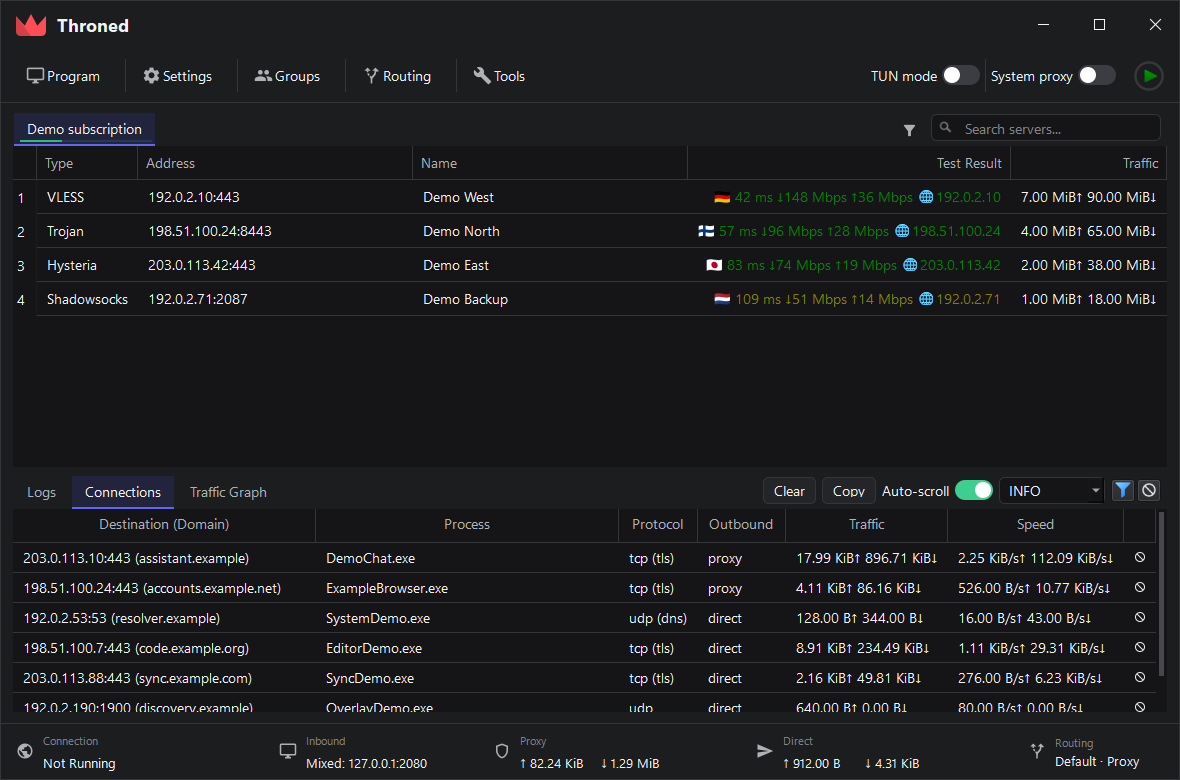
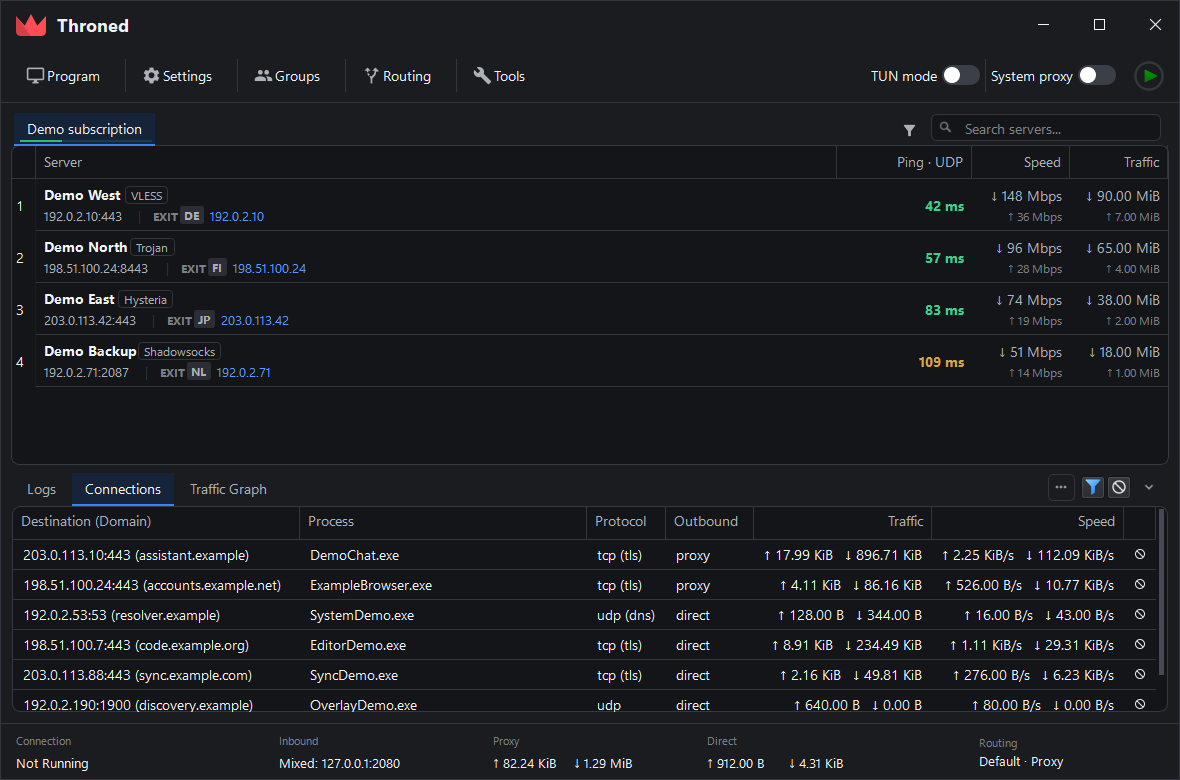
feat: give the log panel the same card and align its connection columns

diff --git a/src/ui/mainWindow/mainwindow_connections.cpp b/src/ui/mainWindow/mainwindow_connections.cpp
@@ -64,6 +64,10 @@ void MainWindow::setupConnectionList()
     ui->connections->horizontalHeader()->setSectionResizeMode(ConnectionsFilterHeader::ColClose, QHeaderView::Fixed);
     ui->connections->setColumnWidth(ConnectionsFilterHeader::ColClose, CLOSE_COLUMN_WIDTH);
     ui->connections->verticalHeader()->hide();
+    // Numbers read right-aligned, and the header has to follow them.
+    for (int column : {ConnectionsFilterHeader::ColTraffic, ConnectionsFilterHeader::ColSpeed})
+        if (auto* headerItem = ui->connections->horizontalHeaderItem(column))
+            headerItem->setTextAlignment(Qt::AlignRight | Qt::AlignTop);
     ui->connections->setContextMenuPolicy(Qt::CustomContextMenu);
     connect(ui->connections, &QWidget::customContextMenuRequested, this, &MainWindow::showConnectionMenu);
     refreshConnectionCloseIcons();
@@ -377,6 +381,10 @@ void MainWindow::buildConnectionRow(const int row)
         {
             ui->connections->setItem(row, column, new QTableWidgetItem());
         }
+        for (int column : {ConnectionsFilterHeader::ColTraffic, ConnectionsFilterHeader::ColSpeed})
+        {
+            ui->connections->item(row, column)->setTextAlignment(Qt::AlignRight | Qt::AlignVCenter);
+        }
     }
     if (ui->connections->cellWidget(row, ConnectionsFilterHeader::ColClose) != nullptr) return;
 
@@ -404,8 +412,8 @@ void MainWindow::fillConnectionRow(const int row, const Stats::ConnectionMetadat
         conn.process,
         prot,
         conn.outbound,
-        ReadableSize(conn.upload) + "↑" + " " + ReadableSize(conn.download) + "↓",
-        ReadableSize(conn.uploadSpeed) + "/s↑" + " " + ReadableSize(conn.downloadSpeed) + "/s↓",
+        QStringLiteral("↑ ") + ReadableSize(conn.upload) + QStringLiteral("   ↓ ") + ReadableSize(conn.download),
+        QStringLiteral("↑ ") + ReadableSize(conn.uploadSpeed) + QStringLiteral("/s   ↓ ") + ReadableSize(conn.downloadSpeed) + QStringLiteral("/s"),
     };
     for (int column = 0; column < ConnectionsFilterHeader::ColClose; column++)
     {

diff --git a/src/ui/mainWindow/mainwindow_setup.cpp b/src/ui/mainWindow/mainwindow_setup.cpp
@@ -653,6 +653,13 @@ MainWindow::MainWindow(QWidget *parent) : QMainWindow(parent), ui(new Ui::MainWi
     tablePalette.setColor(QPalette::HighlightedText, QColor(QStringLiteral("#FFFFFF")));
     ui->profilesTableView->setPalette(tablePalette);
     ui->connections->setShowGrid(false);
+    // Every tab page of the bottom panel is a card too, for the same reason the
+    // group pages are: the view inside fills its viewport square.
+    for (int tab = 0; tab < ui->stats_widget->count(); ++tab) {
+        QWidget *page = ui->stats_widget->widget(tab);
+        page->setProperty("thronedCard", true);
+        page->setAttribute(Qt::WA_StyledBackground, true);
+    }
     ui->masterLogBrowser->setLineWrapMode(QTextEdit::WidgetWidth);
     const QString mainStyleTemplate = QStringLiteral(R"(
 * { font-size: %BASE_FONT_PX%px; color: #F1F3F5; }
@@ -718,7 +725,7 @@ QTabWidget#groupsCard QTabBar::tab:hover, QTabWidget#logsCard QTabBar::tab:hover
 QTabWidget#groupsCard QTabBar::tab:selected, QTabWidget#logsCard QTabBar::tab:selected {
     color: #F1F3F5; background: #182530; border-bottom: 2px solid #237AE9;
 }
-QWidget#profilesPage {
+QWidget[thronedCard="true"] {
     background: #171B21; border: 1px solid #343A42; border-radius: 8px;
 }
 /* The group page paints the card; the table and its headers stay transparent so

diff --git a/include/ui/utils/ConnectionsFilterHeader.h b/include/ui/utils/ConnectionsFilterHeader.h
@@ -10,12 +10,13 @@
 class ConnectionsFilterHeader : public QHeaderView {
     Q_OBJECT
 public:
-    enum Column { ColDest = 0, ColProcess = 1, ColProtocol = 2, ColOutbound = 3, ColClose = 6, ColumnCount = 7 };
+    enum Column { ColDest = 0, ColProcess = 1, ColProtocol = 2, ColOutbound = 3,
+                  ColTraffic = 4, ColSpeed = 5, ColClose = 6, ColumnCount = 7 };
 
     explicit ConnectionsFilterHeader(QWidget *parent = nullptr)
         : QHeaderView(Qt::Horizontal, parent) {
         setSectionsClickable(true);
-        setDefaultAlignment(Qt::AlignHCenter | Qt::AlignTop);
+        setDefaultAlignment(Qt::AlignLeft | Qt::AlignTop);
 
         dest_filter = makeEdit();
         process_filter = makeEdit();

diff --git a/src/main.cpp b/src/main.cpp
@@ -793,6 +793,8 @@ briefly interrupts traffic.
         window->refresh_status(Stats::DisplaySpeed(proxy) + QChar(0x001F) + Stats::DisplaySpeed(direct));
         window->refresh_status();
 
+        // The panel ships closed, but the screenshots exist to show what is inside it.
+        window->setStatsPanelOpen(true, false);
         for (auto *tabs : window->findChildren<QTabWidget *>())
             for (int tab = 0; tab < tabs->count(); ++tab)
                 if (tabs->widget(tab)->findChild<QTableWidget *>(QStringLiteral("connections")) != nullptr)

diff --git a/src/ui/mainWindow/mainwindow_groups.cpp b/src/ui/mainWindow/mainwindow_groups.cpp
@@ -46,7 +46,7 @@ void MainWindow::show_group(int gid) {
     // The page, not the table, paints the rounded card: a QTableView fills its
     // viewport square, so the pane's corners never survive underneath it.
     auto *page = ui->tabWidget->widget(groupId2TabIndex(gid));
-    page->setObjectName(QStringLiteral("profilesPage"));
+    page->setProperty("thronedCard", true);
     page->setAttribute(Qt::WA_StyledBackground, true);
     page->style()->unpolish(page);
     page->style()->polish(page);
